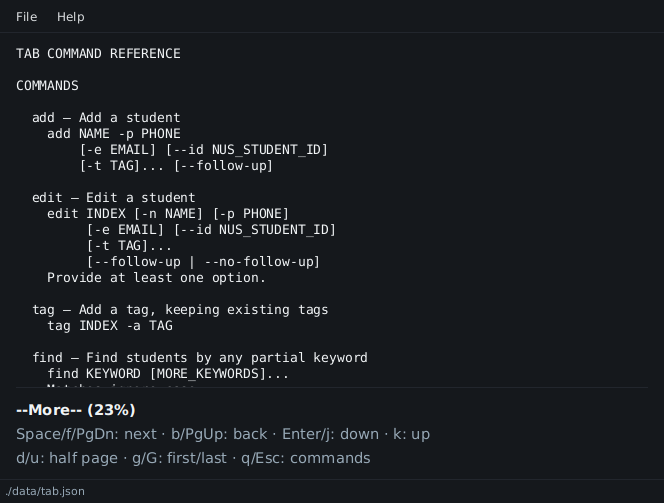
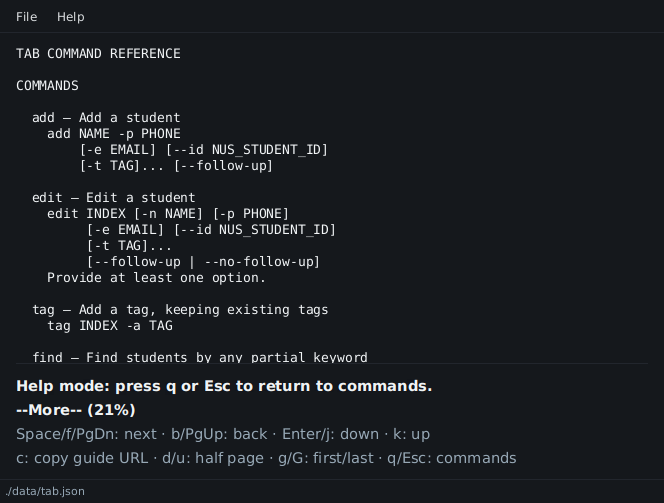
Restore keyboard copying of the User Guide URL
The help pager shows the guide address in an unselectable label, so
users must retype it after the old Copy URL button is removed.
Unused letters also give no hint about returning to command input.

Let's copy the guide address with c and confirm it in the footer.
Show a return hint for unused keys and keep the reference readable
at minimum width. Cover copying, notices and line widths in UI tests
and update both guides and the help screenshot.

Changed region(s): [[0.0301, 0.7157, 0.6627, 0.835], [0.0301, 0.8946, 0.7831, 0.9245]]

diff --git a/src/test/java/seedu/tab/ui/HelpPageTest.java b/src/test/java/seedu/tab/ui/HelpPageTest.java
@@ -3,6 +3,8 @@ package seedu.tab.ui;
 import static org.junit.jupiter.api.Assertions.assertEquals;
 import static org.junit.jupiter.api.Assertions.assertTrue;
 
+import java.util.HashMap;
+import java.util.Map;
 import java.util.concurrent.atomic.AtomicInteger;
 
 import org.junit.jupiter.api.BeforeAll;
@@ -11,9 +13,13 @@ import org.junit.jupiter.api.Test;
 import javafx.scene.Scene;
 import javafx.scene.control.Label;
 import javafx.scene.control.ScrollPane;
+import javafx.scene.input.Clipboard;
+import javafx.scene.input.DataFormat;
 import javafx.scene.input.KeyCode;
 import javafx.scene.input.KeyEvent;
 import javafx.scene.layout.Region;
+import javafx.scene.text.Text;
+import seedu.tab.logic.commands.HelpCommand;
 
 public class HelpPageTest {
     private static final double TOLERANCE = 0.0001;
@@ -69,6 +75,8 @@ public class HelpPageTest {
             press(page, KeyCode.X);
             type(page, "x");
             assertEquals(beforeUnknown, viewport.getVvalue());
+            Label notice = (Label) page.getRoot().lookup("#helpNotice");
+            assertEquals("Press q or Esc to return to the command box.", notice.getText());
             assertEquals(0, quitCount.get());
             return null;
         });
@@ -112,6 +120,58 @@ public class HelpPageTest {
             press(page, KeyCode.END);
             assertEquals(1, viewport.getVvalue());
             assertEquals("(END)", progress.getText());
+            return null;
+        });
+    }
+
+    private static Map<DataFormat, Object> clipboardContents(Clipboard clipboard) {
+        Map<DataFormat, Object> contents = new HashMap<>();
+        for (DataFormat format : clipboard.getContentTypes()) {
+            Object value = clipboard.getContent(format);
+            if (value != null) {
+                contents.put(format, value);
+            }
+        }
+        return contents;
+    }
+
+    @Test
+    public void copyGuideUrl_copiesExactAddressWithoutMovingAndResetsNoticeOnReopen() throws Exception {
+        FxToolkit.onFxThread(() -> {
+            Clipboard clipboard = Clipboard.getSystemClipboard();
+            Map<DataFormat, Object> previous = clipboardContents(clipboard);
+            try {
+                AtomicInteger quitCount = new AtomicInteger();
+                HelpPage page = pageAt(490, 360, quitCount);
+                type(page, "f");
+                double beforeCopy = viewportOf(page).getVvalue();
+                type(page, "c");
+                assertEquals(HelpCommand.USER_GUIDE_URL, clipboard.getString());
+                assertEquals(beforeCopy, viewportOf(page).getVvalue());
+                assertEquals(0, quitCount.get());
+                Label notice = (Label) page.getRoot().lookup("#helpNotice");
+                assertEquals("User Guide URL copied.", notice.getText());
+                page.show();
+                assertEquals("Help mode: press q or Esc to return to commands.", notice.getText());
+            } finally {
+                clipboard.setContent(previous);
+            }
+            return null;
+        });
+    }
+
+    @Test
+    public void reference_minimumWindowWidth_preservesExplicitLineBreaks() throws Exception {
+        FxToolkit.onFxThread(() -> {
+            // Reserve native frame space as well as the page padding at the 490px window minimum.
+            HelpPage page = pageAt(474, 600, new AtomicInteger());
+            Label text = (Label) page.getRoot().lookup("#helpText");
+            for (String line : text.getText().split("\\n")) {
+                Text measured = new Text(line);
+                measured.setFont(text.getFont());
+                assertTrue(measured.getLayoutBounds().getWidth() <= text.getWidth(),
+                        "reference line wraps at minimum width: " + line);
+            }
             return null;
         });
     }

diff --git a/src/main/java/seedu/tab/ui/HelpPage.java b/src/main/java/seedu/tab/ui/HelpPage.java
@@ -3,6 +3,8 @@ package seedu.tab.ui;
 import javafx.fxml.FXML;
 import javafx.scene.control.Label;
 import javafx.scene.control.ScrollPane;
+import javafx.scene.input.Clipboard;
+import javafx.scene.input.ClipboardContent;
 import javafx.scene.input.KeyEvent;
 import javafx.scene.layout.Region;
 import javafx.scene.text.Text;
@@ -16,6 +18,7 @@ public class HelpPage extends UiPart<Region> {
     private static final String FXML = "HelpPage.fxml";
     private static final double HALF_PAGE = 0.5;
     private static final int PERCENT = 100;
+    private static final String READY_MESSAGE = "Help mode: press q or Esc to return to commands.";
 
     private final Runnable closeHelp;
 
@@ -25,6 +28,8 @@ public class HelpPage extends UiPart<Region> {
     private Label helpText;
     @FXML
     private Label helpProgress;
+    @FXML
+    private Label helpNotice;
 
     /** Creates a pager that restores the command view when the user quits help. */
     public HelpPage(Runnable closeHelp) {
@@ -33,6 +38,7 @@ public class HelpPage extends UiPart<Region> {
         getRoot().addEventFilter(KeyEvent.KEY_PRESSED, this::handleKeyPressed);
         getRoot().addEventFilter(KeyEvent.KEY_TYPED, this::handleKeyTyped);
         helpText.setText(HelpCommand.SHOWING_HELP_MESSAGE);
+        helpNotice.setText(READY_MESSAGE);
         helpViewport.vvalueProperty().addListener((unused, old, value) -> updateProgress());
         helpViewport.viewportBoundsProperty().addListener((unused, old, bounds) -> updateProgress());
         helpText.layoutBoundsProperty().addListener((unused, old, bounds) -> updateProgress());
@@ -41,6 +47,7 @@ public class HelpPage extends UiPart<Region> {
 
     /** Opens help at the beginning with immediate keyboard navigation. */
     public void show() {
+        helpNotice.setText(READY_MESSAGE);
         helpViewport.setVvalue(0);
         getRoot().requestFocus();
     }
@@ -80,11 +87,20 @@ public class HelpPage extends UiPart<Region> {
             case "g" -> helpViewport.setVvalue(0);
             case "G" -> helpViewport.setVvalue(1);
             case "q" -> closeHelp.run();
+            case "c" -> copyGuideUrl();
             default -> {
+                helpNotice.setText("Press q or Esc to return to the command box.");
                 return;
             }
         }
         event.consume();
+    }
+
+    private void copyGuideUrl() {
+        ClipboardContent content = new ClipboardContent();
+        content.putString(HelpCommand.USER_GUIDE_URL);
+        Clipboard.getSystemClipboard().setContent(content);
+        helpNotice.setText("User Guide URL copied.");
     }
 
     private double lineHeight() {

diff --git a/src/main/java/seedu/tab/logic/commands/HelpCommand.java b/src/main/java/seedu/tab/logic/commands/HelpCommand.java
@@ -96,7 +96,7 @@ public class HelpCommand extends Command {
             "  -t \"\"      Clear all tags",
             "",
             "  Otherwise, edit -t replaces existing tags.",
-            "  Follow-up options take no value and cannot be combined.",
+            "  Follow-up flags take no value; choose at most one.",
             "",
             "CLEAR CONFIRMATION",
             "",
@@ -112,8 +112,7 @@ public class HelpCommand extends Command {
             "  Up/Down recalls commands in the command box.",
             "  Press q or Esc, then enter your next command.",
             "",
-            "  User Guide:",
-            "  " + USER_GUIDE_URL);
+            "  Press c to copy the User Guide address.");
 
     @Override
     public CommandResult execute(Model model) {

diff --git a/docs/DeveloperGuide.md b/docs/DeveloperGuide.md
@@ -119,6 +119,10 @@ and q/Esc return to commands. PgUp/PgDn, arrows and Home/End are also accepted.
 A wrapped label inside a scrollbar-free viewport takes the remaining window height.
 Page movement uses the current viewport and font metrics, so resizing and different
 fonts do not skip text. A persistent footer shows progress and navigation keys.
+The c key copies `HelpCommand.USER_GUIDE_URL` to the system clipboard and confirms
+it in the footer. Unused typed keys show a reminder to quit help before entering
+a command. The reference keeps explicit lines short enough for minimum width;
+the long User Guide address is available through c instead of wrapping in the label.
 Letter commands are handled on `KEY_TYPED`, consuming q before focus returns to the
 command box so quitting cannot insert a stray character. No student data is changed.
 
@@ -1609,10 +1613,17 @@ testers are expected to do more *exploratory* testing.
 
    1. Press Space/f and b to move forward/back a screenful. Try Enter/j and k,
       d/u, PgDn/PgUp, arrows and Home/End. Press g then G.<br>
-      Expected: Each moves as documented; G reaches the last User Guide line and
+      Expected: Each moves as documented; G reaches the last guide-copy hint and
       the footer says `(END)`. Repeated paging at either end stays there.
       Repeat at minimum size and resize while on the last screenful: all text
       remains reachable without scrollbars.
+
+   1. Press c while help is open, then paste into a browser address bar.<br>
+      Expected: The exact address `https://ay2627s1-cs2103t-t16-1.github.io/tp/UserGuide.html`
+      is copied and the footer confirms `User Guide URL copied.`. The reading
+      position, student data and unfinished command stay unchanged. Typing an
+      unused letter such as x shows `Press q or Esc to return to the command box.`.
+      Reopening help clears that temporary notice.
 
    1. Press q, enter `list`, then reopen help and press Esc.<br>
       Expected: Both quit keys restore the student view and focus the command

diff --git a/docs/UserGuide.md b/docs/UserGuide.md
@@ -187,7 +187,7 @@ run `list` to see the whole cohort again.
 
 Opens a help page inside TAB, replacing the student list and command box until
 you leave help. It shows every supported command, its purpose and concise syntax,
-option aliases, quoting rules and the User Guide address.
+option aliases, quoting rules and a shortcut to copy the User Guide address.
 
 Use these pager keys immediately, without clicking or pressing Enter after a letter:
 
@@ -200,6 +200,12 @@ Use these pager keys immediately, without clicking or pressing Enter after a let
 | `d` / `u` | Forward / backward half a screenful |
 | `g` / `G`, Home / End | Beginning / end |
 | `q`, Esc | Return to commands |
+| `c` | Copy the User Guide URL |
+
+Press **c** to copy the complete User Guide address to your clipboard. The footer
+confirms `User Guide URL copied.`; paste it into a browser to read the full guide.
+Typing an unused key shows `Press q or Esc to return to the command box.` so you
+can leave help before typing a command.
 
 The footer keeps the navigation keys visible and shows your progress, or `(END)`
 at the last screenful. Help has no scrollbars. Text wraps to the window width;
@@ -634,5 +640,5 @@ Action     | Format, Examples
 **Find**   | `find KEYWORD [MORE_KEYWORDS]`<br> e.g., `find James "Lab 3" A0123`
 **List**   | `list`
 **Exit**   | `exit`
-**Help**   | `help` (also `F1` or Help menu); Space/`b` to page, `q`/Esc to return
+**Help**   | `help` (also `F1` or Help menu); Space/`b` to page, `c` to copy the guide URL, `q`/Esc to return
 **Recall** | `Up` / `Down` in the command box; session only
